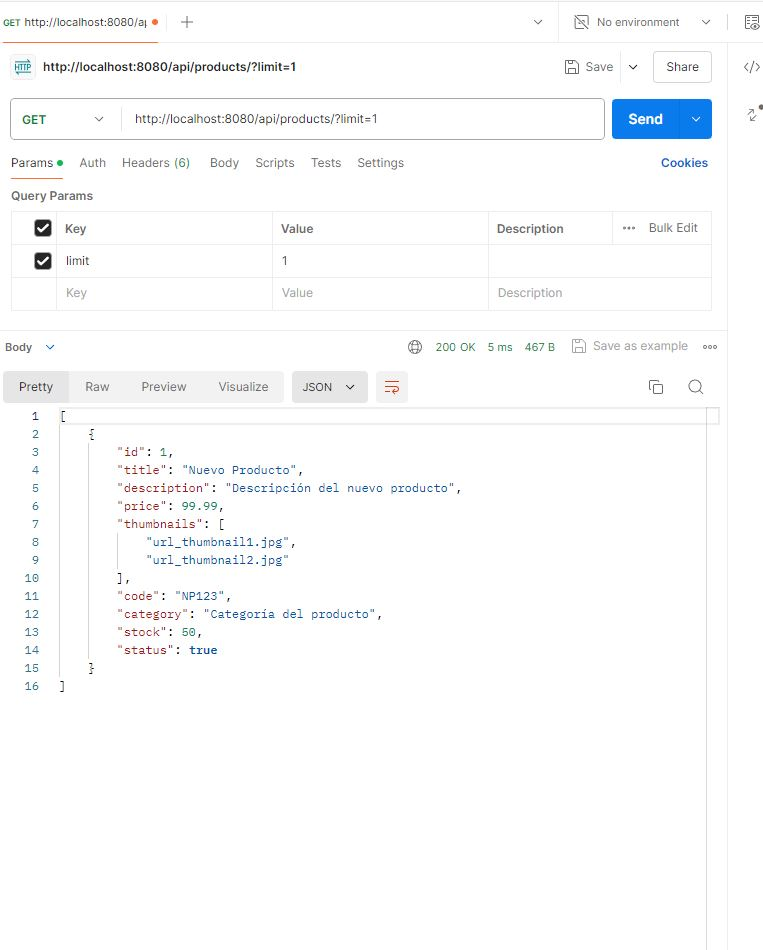
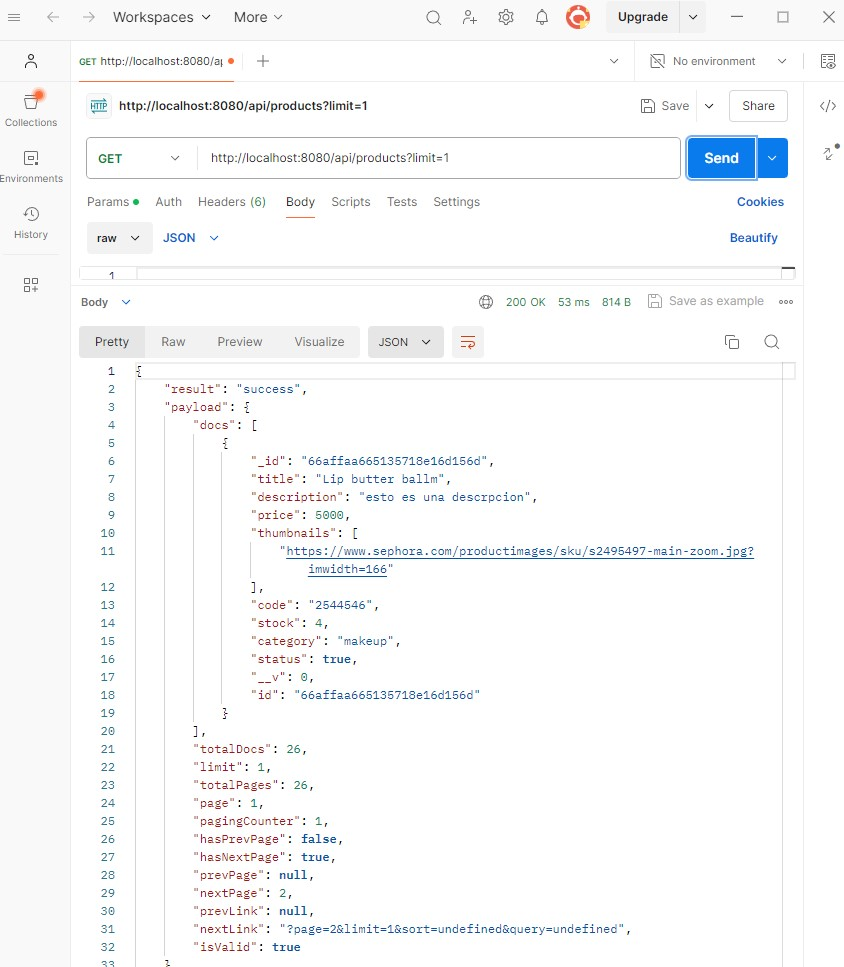
Se dieron estilos con Bootstrap. Se editó el readme

diff --git a/src/routes/views.router.js b/src/routes/views.router.js
@@ -15,7 +15,7 @@ router.get('/realtimeproducts', async (req, res) => {
        
         res.render('realTimeProducts',  {
             products: result.docs,
-            title: 'Productos en tiempo real',
+            title: 'Real time products',
             useWS: true,
             scripts: ['realtime.js'],
         });
@@ -56,7 +56,7 @@ router.get('/products', async (req, res) => {
     result.nextLink = result.hasNextPage ? `?page=${result.nextPage}&limit=${limit}&sort=${sort}&query=${query}` : null
     result.isValid = !(page <= 0 || page > result.totalPages)
         res.render('index', {
-            title: 'Productos',
+            title: 'Products',
             products: result.docs,
             payload: result.docs,
             totalPages: result.totalPages,
@@ -90,7 +90,6 @@ router.get('/cart/:cid', async (req, res) => {
         let cartLength = result.products.length 
         let emptyCart = cartLength === 0;
 
-        console.log(emptyCart)
         res.render('cart', { 
             title: 'Cart',
             cart: result.products,

diff --git a/src/models/product.model.js b/src/models/product.model.js
@@ -12,7 +12,7 @@ const productSchema =  mongoose.Schema({
     code: {type: String, required: true},
     stock: {type: Number, required: true, min: 0},
     category: {type: String, required: true},
-    status: {type: Boolean, default: true},
+    status: {type: Boolean, required: true, default: true},
 })
 
 productSchema.plugin(mongoosePaginate);

diff --git a/README.md b/README.md
@@ -1,6 +1,6 @@
 # Proyecto Backend Coderhouse
 
-Esta app es el proyecto del curso de Backend de Coderhouse. En esta ocasión se encuentra actualizada con los requerimientos de la Preentrega N° 2.
+Esta app es el proyecto del curso de Backend I de Coderhouse. En esta ocasión se encuentra actualizada con los requerimientos de la Preentrega N° 3.
 
 ## Información del Proyecto
 
@@ -12,18 +12,20 @@ Esta app es el proyecto del curso de Backend de Coderhouse. En esta ocasión se 
    
 - ### Descripción:
 
-  Es una aplicación desarrollada en Node.js utilizando el framework Express, diseñada para gestionar productos y carritos mediante el uso de persistencia en sistema de archivos (en una futura versión se implementará MongoDb). Permite realizar operaciones CRUD (Crear, Leer, Actualizar, Eliminar) sobre productos almacenados en un archivo JSON y también gestionar carritos de compra.
-  En esta entrega se han implementado Handlebars y Socket.IO para mejorar la interacción en tiempo real.
+  Es una aplicación desarrollada en Node.js utilizando el framework Express, diseñada para gestionar productos y carritos mediante el uso de persistencia en Mongo Db Atlas. Permite realizar operaciones CRUD (Crear, Leer, Actualizar, Eliminar) sobre productos almacenados en la database y también gestionar carritos de compra.
+  
 
 - ### Características:
-  - Eliminar y agregar carritos y ver la vista en tiempo real.
-  - Crear, listar, actualizar y eliminar productos.
+  - Eliminar y agregar productos del catálogo y ver la vista en tiempo real.
+  - Crear, obtener, actualizar y eliminar productos del catálogo.
   - Crear carritos de compra.
   - Agregar productos a los carritos existentes.
-  - Visualizar el contenido de los carritos.
+  - Obtener el contenido de los carritos.
+  - Eliminar productos de los carritos.
   - Vistas:
-    Home ("/"): Página principal, que carga todos los productos guardados con fs en products.json.
-    Realtime Products ("/realtimeproducts"): Permite, a través d eun formulario y botones, agregar y eliminar productos y ver los cambios en la vista en tiempo real usando Socket.IO. Además se utiliza Sweet Alert para mostrar mensajes de bienvenida y de confirmación al eliminar y agregar productos
+   Cuenta con vistas desarrolladas con handlebars. Las mismas permiten navegar hacia el catálogo de products y vista de cart. 
+  <p style="color:red;">IMPORTANTE: Por el momento la id del cart al que se agregan los products está hardcodeada, hasta tanto se implemente sessions y users.</p> 
+   Se conserva la vista de Realtimeproducts de la entrega anterior, que mediante Socket.IO, permite al usuario agregar y quitar productos del catálogo de productos y ver cómo el catálogo se actualiza en tiempo real.
 
 - ### Tecnologías utilizadas:
   - Node.js
@@ -31,8 +33,10 @@ Esta app es el proyecto del curso de Backend de Coderhouse. En esta ocasión se 
   - Handlebars.
   - Socket.IO.
   - Sweet Alert.
-  - Persistencia: Mongoose.
+  - Persistencia: Mongo Db Atlas.
+  - Mongoose.
   - Mongoose-paginate-v2.
+  - Bootstrap.
 
 
 ## Instalación
@@ -58,7 +62,8 @@ npm start
 
 - **Obtener todos los productos:**
   - URL: `http://localhost:8080/api/products`
-  - Filtros opcionales, a solicitar mediante query: 
+
+- **Filtros opcionales, a solicitar mediante query:**
     -Page (si no se proporciona un valor, se otorga la page 1).
      URL: `http://localhost:8080/api/products?page=2`
     - Limit (si no se proporciona, por default es 10):
@@ -72,39 +77,40 @@ npm start
     - Múltiples queries:
     URL: `http://localhost:8080/api/products?sort=asc&query=true&page=2&limit=4`
 
- 
-
-
 - **Obtener un producto por su ID:**
   - URL: `http://localhost:8080/api/products/:pid`
-  - Ejemplo: `http://localhost:8080/api/products/1`
+  - Ejemplo: `http://localhost:8080/api/products/66b41580fddd12e794da120b`
 
 **POST:**
 
 - **Crear un nuevo producto:**
   - URL: `http://localhost:8080/api/products`
-  - Body (JSON):
-    ```json
-    {
-      "title": "Producto nuevo 2",
-      "description": "Producto excelente",
-      "price": 5559,
-      "thumbnails": [
-        "url_thumbnail1.jpg",
-        "url_thumbnail2.jpg"
-      ],
-      "code": "ASFG3",
-      "category": "Nueva category",
-      "stock": 10
-    }
-    ```
+  - Ejemplo de Body (JSON):
+    
+```json
+{
+    "title": "Oil Control Serum",
+    "description": " A high-strength vitamin-and-mineral blemish formula with pure niacinamide.",
+    "price": 3000,
+    "thumbnails": [
+        "https://www.sephora.com/productimages/sku/s2031391-main-zoom.jpg?imwidth=166"
+    ],
+    "code": "9988776",
+    "stock": 20,
+    "category": "skincare",
+    "status": true
+
+}
+```
+
+
 
 **PUT:**
 
 - **Actualizar un producto por su ID:**
   - URL: `http://localhost:8080/api/products/:pid`
-  - Body (JSON) con campos permitidos: `stock`, `description`, `price`, `category`, `thumbnails`.
-  - Ejemplo: `http://localhost:8080/api/products/9`
+  - Body (JSON) con campos permitidos: `stock`, `description`, `price`, `category`, `thumbnails`,  `title`, `code`, `status`.
+  - Ejemplo: `http://localhost:8080/api/products/66b41607b0607ca7f1a4e9e3`
     ```json
     {
       "stock": 5,
@@ -116,7 +122,7 @@ npm start
 
 - **Eliminar un producto por su ID:**
   - URL: `http://localhost:8080/api/products/:pid`
-  - Ejemplo: `http://localhost:8080/api/products/7`
+  - Ejemplo: `http://localhost:8080/api/products/66b41607b0607ca7f1a4e9e3`
 
 ### CARTS
 
@@ -124,21 +130,36 @@ npm start
 
 - **Crear un nuevo carrito vacío:**
   - URL: `http://localhost:8080/api/carts`
-  - Crea un carrito nuevo con una estructura inicial vacía.
+  - Crea un carrito nuevo con una estructura inicial vacía. El result es:
+  ```json
+  {
+    "result": "success",
+    "payload": {
+        "products": [],
+        "_id": "66b91cce032e0581cd8b53e9",
+        "__v": 0
+    }
+    ```
 
 **POST (Agregar producto al carrito):**
 
 - **Agregar un producto al carrito por IDs:**
-  - URL: `http://localhost:8080/api/carts/:cid/product/:pid`
-  - Ejemplo: `http://localhost:8080/api/carts/2/product/3`
-  - Cada solicitud incrementa la cantidad del producto en 1.
+  - URL: `http://localhost:8080/api/carts/:cid/products/:pid`
+  - Ejemplo: `http://localhost:8080/api/carts/66affd4bc723a31ad3519e85/products/66b415a9b0607ca7f1a4e9db`
+  - La quantity se debe pasar por body:
+  ```json
+  {
+    "quantity": "3"
+    }
+    ```
+
 
 **GET:**
 
 - **Obtener un carrito por su ID:**
   - URL: `http://localhost:8080/api/carts/:cid`
-  - Ejemplo: `http://localhost:8080/api/carts/1`
-  - Lista todos los productos contenidos en el carrito especificado.
+  - Ejemplo: `http://localhost:8080/api/carts/66affd4bc723a31ad3519e85`
+  - Lista todos los productos contenidos en el carrito especificado y realiza populate para traer las propiedades de cada producto.
 
 ## Vistas
 
@@ -147,6 +168,8 @@ npm start
 - **Navegar a la lista de productos (catálogo):**
 - URL: `http://localhost:8080/products`
 - Muestra una lista de todos los productos disponibles.
+  Cuenta con un botón de agregar al carrito.
+  Por el momento no se implementó la vista de los detalles de cada producto.
 - Permite filtrar y ordenar mediante queries:
   - Page (si no se proporciona, por default es 1)
     URL:`http://localhost:8080/products?page=2`
@@ -155,18 +178,24 @@ npm start
   - Sort: opción "asc", los ordena por precio de manera ascendente, cualquier     otra cosa los ordena de manera descendente.
     URL:`http://localhost:8080/products?sort=asc`
   - Filter query=category, debe recibir nombre de categoría, por ejemplo, makeup.
-    URL:`http://localhost:8080/products?query=tools`
+    URL:`http://localhost:8080/products?query=makeup`
   - Filter query=status, recibe true o false que se convierte a boolean y filtra de acuerdo a la propiedad "status" del producto.
     URL:`http://localhost:8080/products?query=false`
   - Aplicando filtros múltiples:
     URL: `http://localhost:8080/products?sort=asc&query=true&page=2&limit=4`
 
+### CART
+
+- **Visualizar el cart con los productos agregados**
+- URL: `http://localhost:8080/cart/66affd4bc723a31ad3519e85`
+Por el momento, el cart al que se agregan los productos mediante el botón está harcodeado con el carrito con id 66affd4bc723a31ad3519e85
+hasta tanto se implemente users y sessions.
+En esta vista se pueden ver los productos agregados y eliminarlos del carrito mediante un botón.
 
 
 
 
-
-## Ejemplos de uso con Postman
+## Capturas de ejemplos de uso con Postman
 ### Obtener todos los productos
 
 ![Obtener todos los productos](https://github.com/Mica-Grand/proyecto-backend-grandoso/blob/main/src/public/img/GET-api-products.png)
@@ -193,7 +222,7 @@ npm start
 
 ### Agregar un producto al carrito por id
 
-![Agregar un producto al carrito](https://github.com/Mica-Grand/proyecto-backend-grandoso/blob/main/src/public/img/POST-api-carts-cid-product-pid.JPG)
+![Agregar un producto al carrito](https://github.com/Mica-Grand/proyecto-backend-grandoso/blob/main/src/public/img/POST-api-carts-cid-products-pid.JPG)
 
 ### Obtener un carrito por su ID
 
